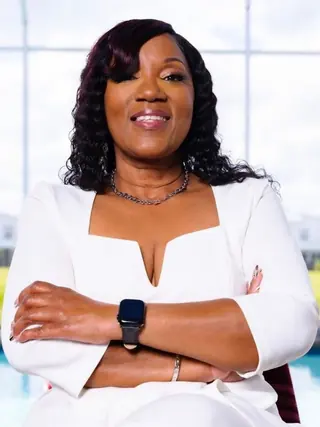
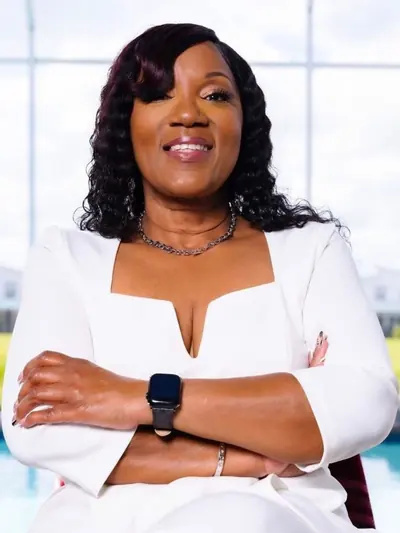
Give Angela's portrait the width of a team portrait
Her frame was a fixed 280px beside team portraits that are a third of the
wrap, so she was the smallest face on the page. The leadership row's middle
column now uses the same track width the team grid gives each portrait,
calc((100% - 48px) / 3), and the frame fills it: 411px against their 411px
at the 1440 frame, and equal again at 1024 and on a phone. Her source is
re-encoded at 800px to stay sharp at the larger size.

Changed region(s): [[0.375, 0.0304, 0.4688, 0.0609], [0.875, 0.9742, 0.9062, 1.0]]

diff --git a/components/sections/Leadership.tsx b/components/sections/Leadership.tsx
@@ -20,11 +20,13 @@ export default function Leadership() {
         <div className="wrap text-center">
           <p className="t-label">{field(S, "Eyebrow")}</p>
           <h2 className="t-stat mt-6">{field(S, "Headline")}</h2>
-          <div className="mt-12 grid items-center gap-8 lg:mt-16 lg:grid-cols-[1fr_280px_1fr] lg:gap-16">
+          {/* The middle column is one of the three the team portraits below are
+              laid out on, so Angela's frame is exactly their width. */}
+          <div className="mt-12 grid items-center gap-8 lg:mt-16 lg:grid-cols-[1fr_calc((100%-48px)/3)_1fr] lg:gap-16">
             <p className="t-small order-2 mx-auto max-w-[280px] lg:order-1 lg:mr-0 lg:text-right">{body.slice(0, cut + 1).trim()}</p>
             {/* The client's own photograph of Angela. Never generated. */}
-            <div className="relative order-1 mx-auto aspect-[3/4] w-[220px] overflow-hidden lg:order-2 lg:w-[280px]">
-              <Photo name="24-angela-dean" fill sizes="(min-width: 1024px) 280px, 220px" className="object-cover" alt="Angela Dean, founder of Prestigious Property Management Services, standing with her arms folded in a white suit." />
+            <div className="relative order-1 mx-auto aspect-[3/4] w-[82%] max-w-[320px] overflow-hidden lg:order-2 lg:w-full lg:max-w-none">
+              <Photo name="24-angela-dean" fill sizes="(min-width: 1024px) 30vw, 82vw" className="object-cover" alt="Angela Dean, founder of Prestigious Property Management Services, standing with her arms folded in a white suit." />
             </div>
             <p className="t-small order-3 mx-auto max-w-[280px] lg:ml-0 lg:text-left">{body.slice(cut + 1).trim()}</p>
           </div>
